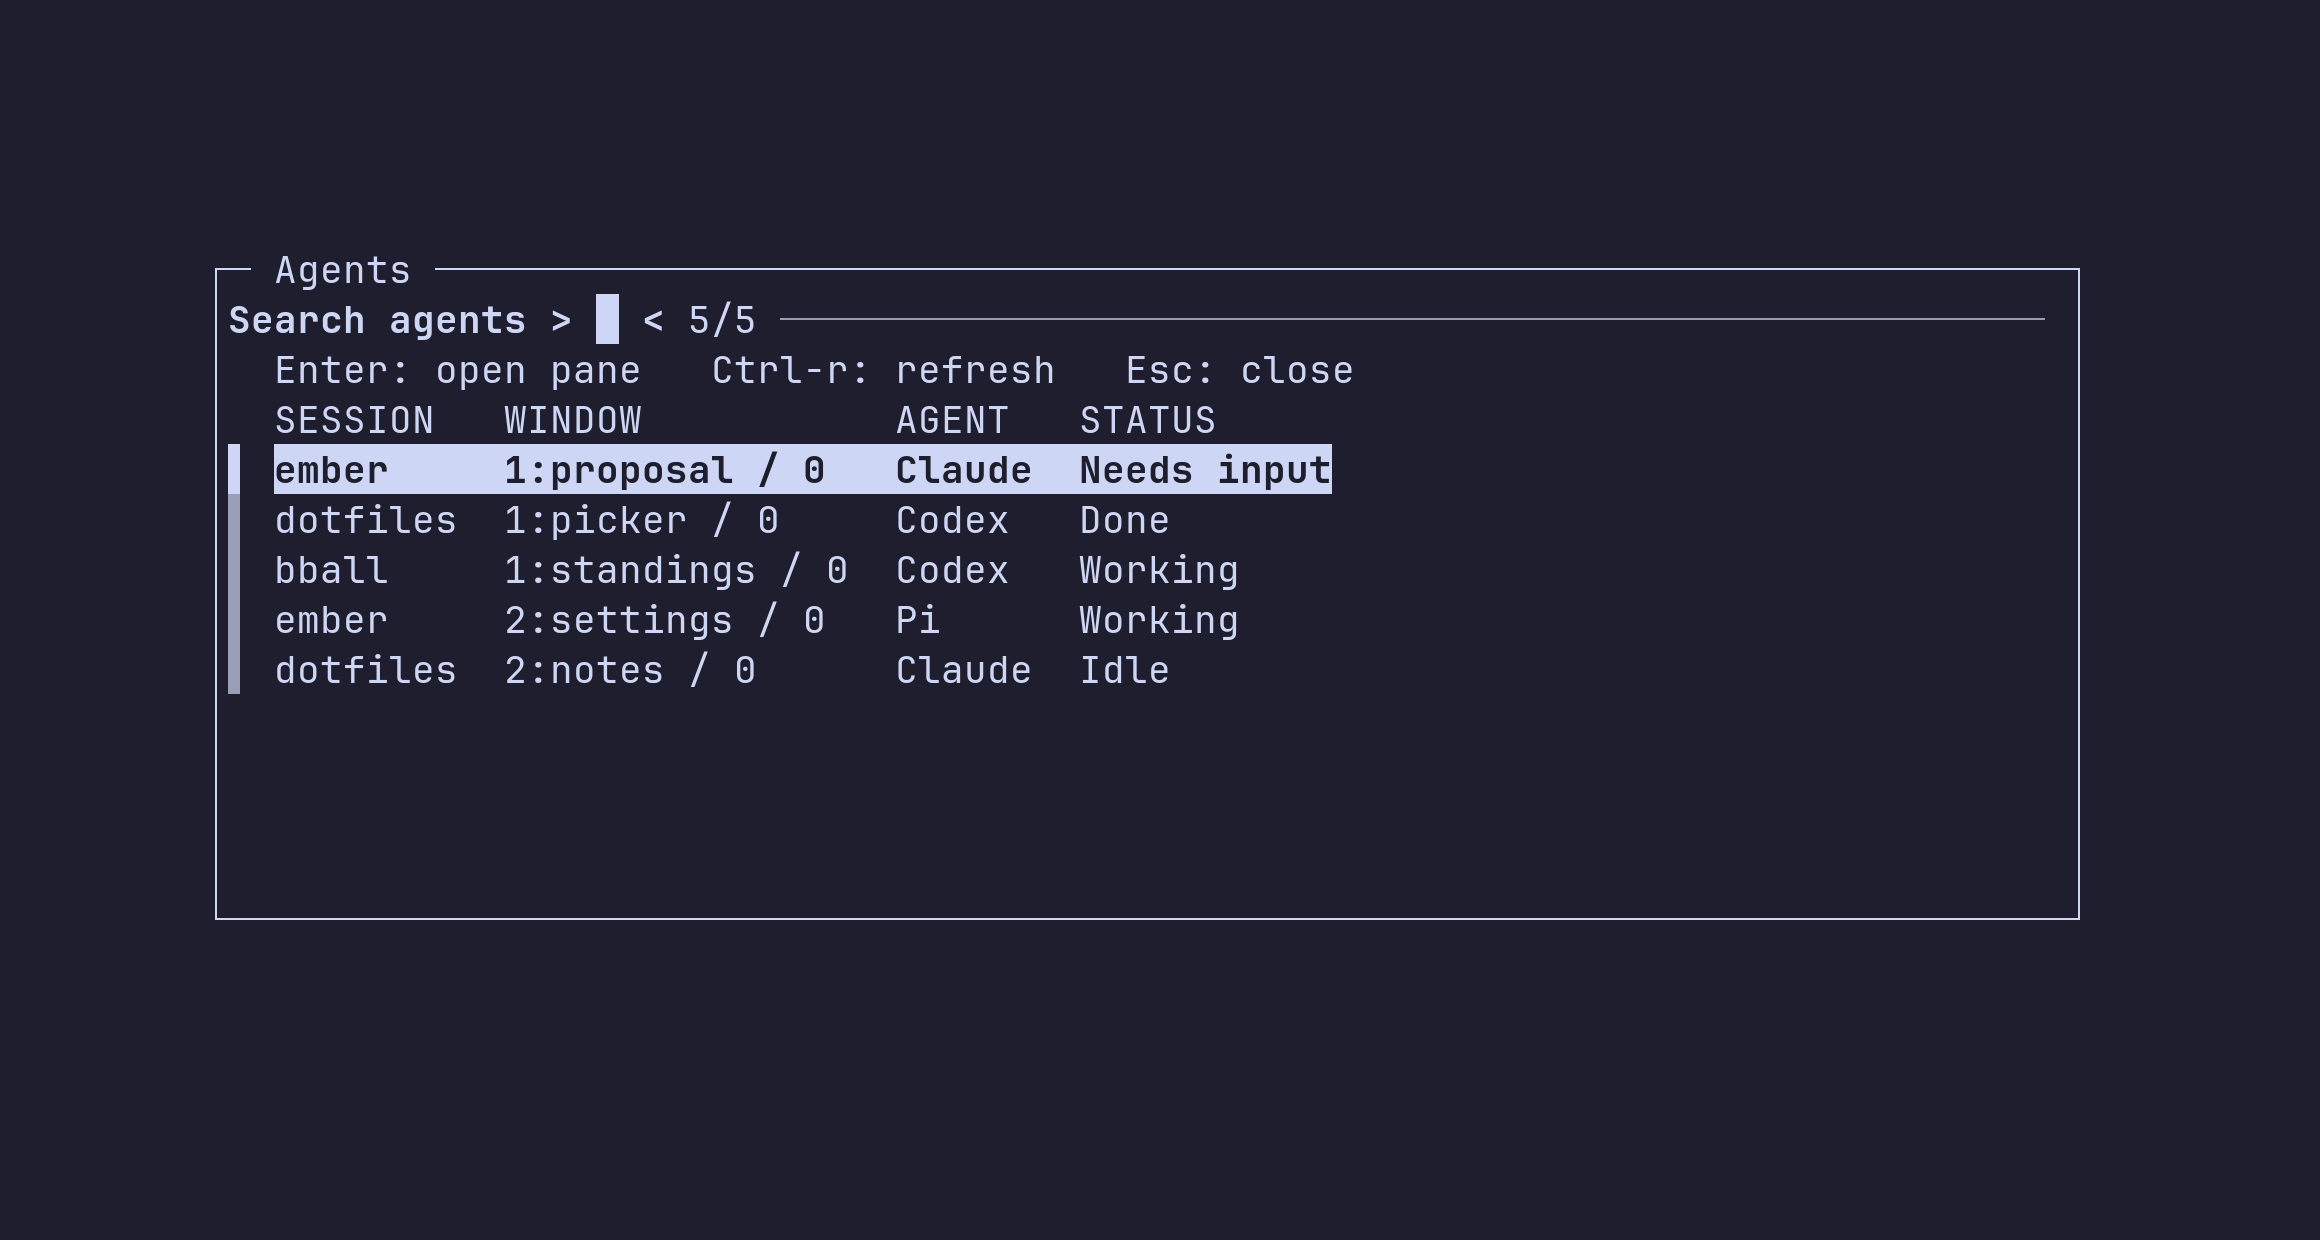
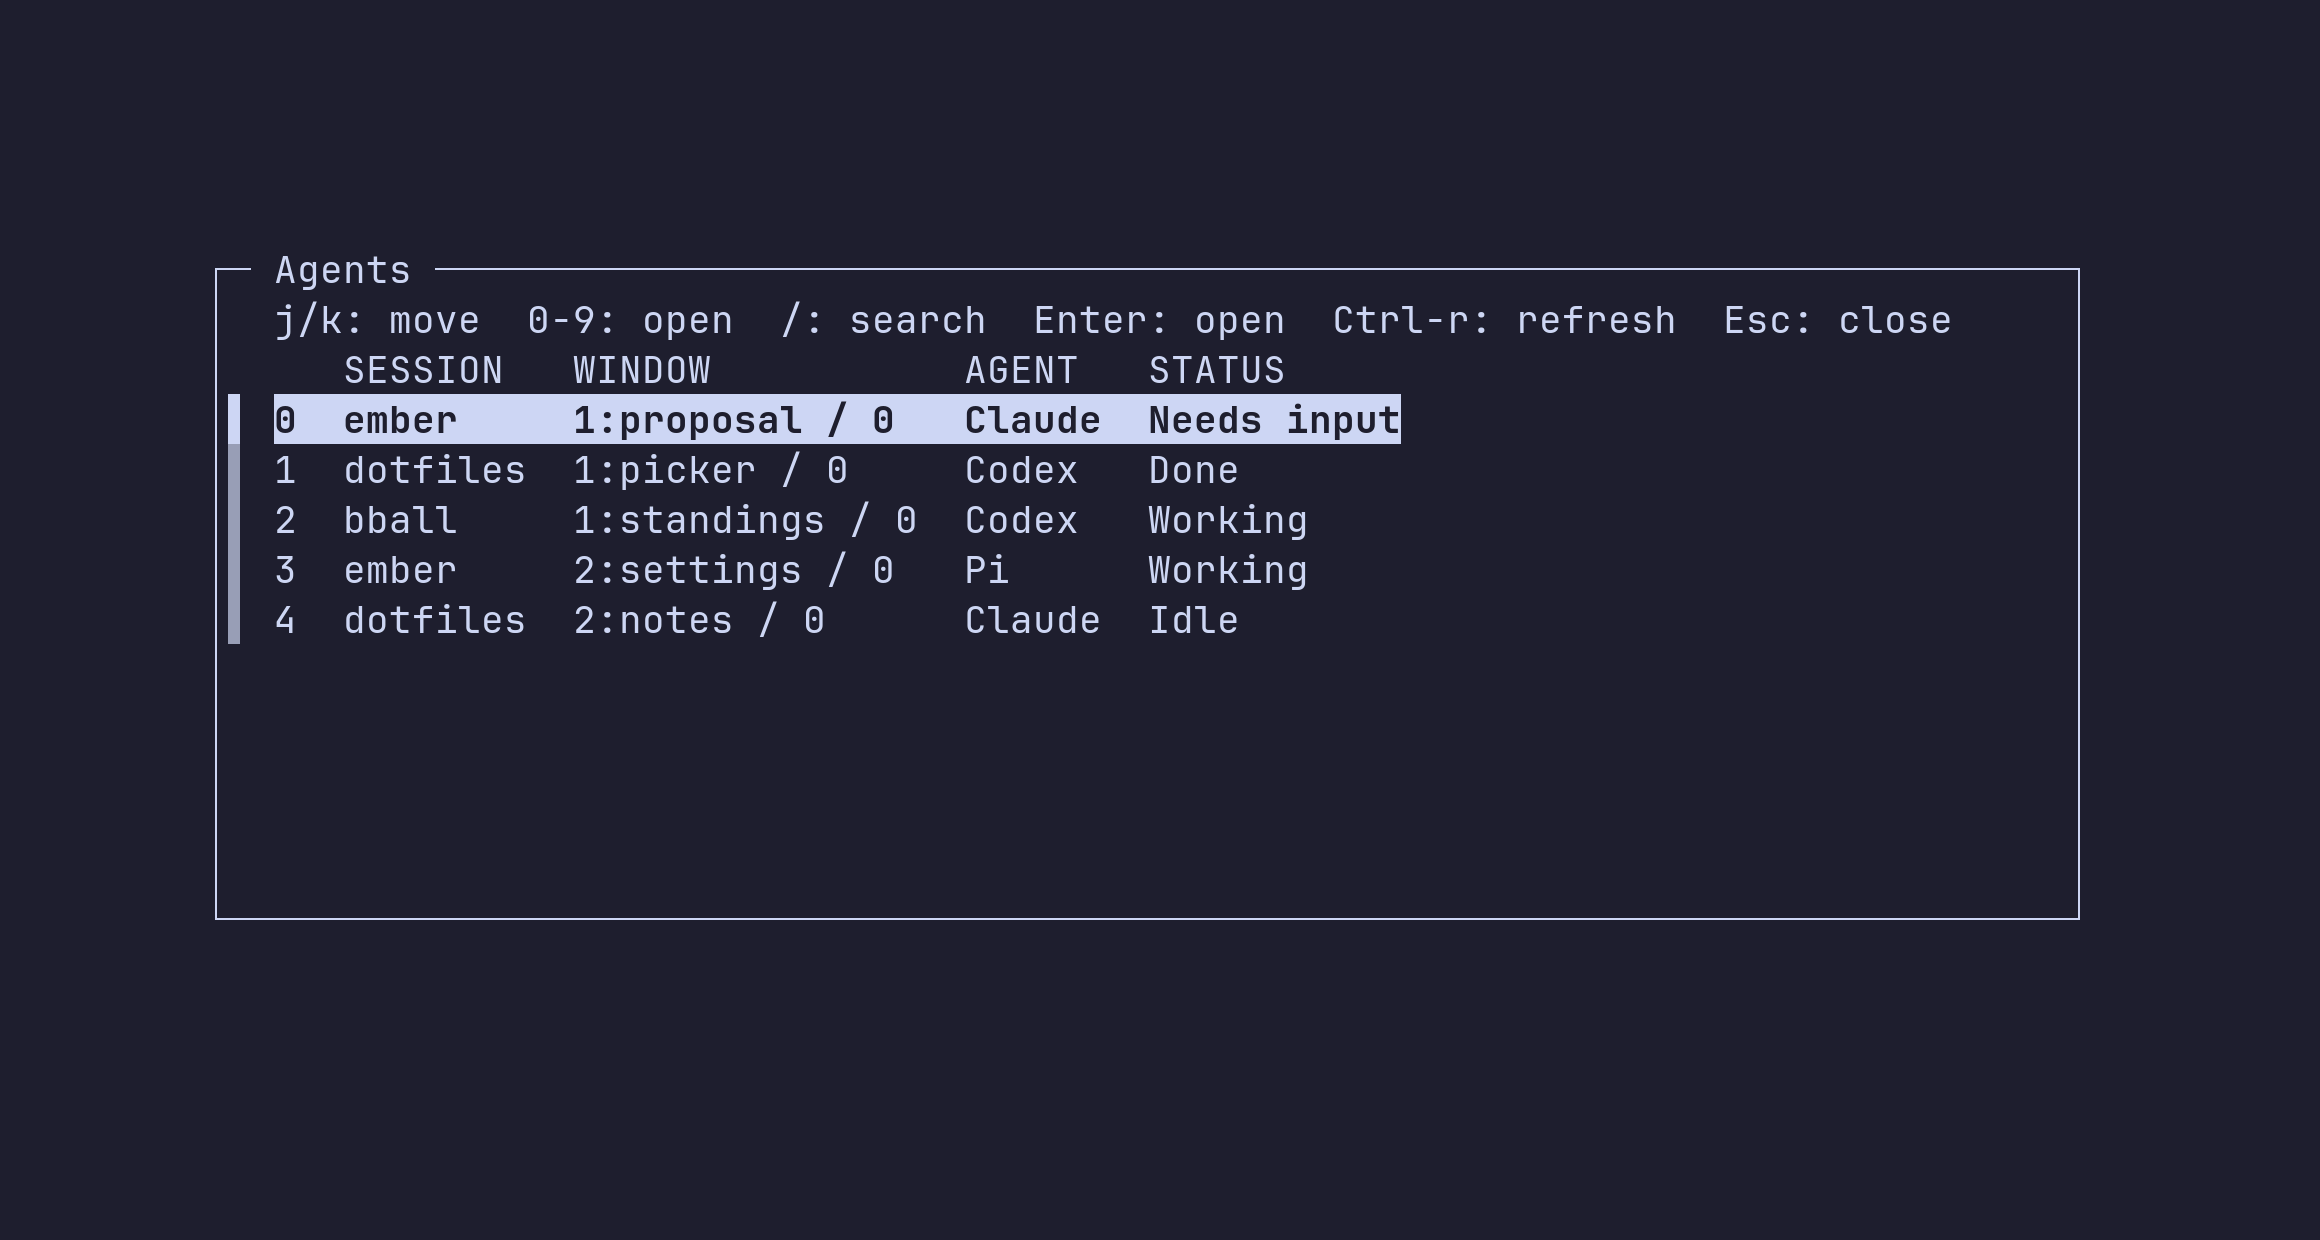
feat(no-ticket): add Vim navigation and numbered agent shortcuts

Changed region(s): [[0.0931, 0.2452, 0.8379, 0.5516]]

diff --git a/tests/test_tmux_agent_picker.py b/tests/test_tmux_agent_picker.py
@@ -116,7 +116,7 @@ class PickerTest(unittest.TestCase):
     def open_popup(self, fd):
         self.output[fd] = b''
         os.write(fd, b'\x02b')
-        self.until(lambda: b'SESSION' in self.output[fd] and b'Search agents' in self.output[fd])
+        self.until(lambda: b'SESSION' in self.output[fd] and b'Enter:' in self.output[fd])
 
     def keys_and_wait(self, fd, keys, text):
         self.output[fd] = b''
@@ -129,6 +129,48 @@ class PickerTest(unittest.TestCase):
         if client:
             args += ['--client', client]
         return subprocess.run(args, env=self.env, text=True, capture_output=True, check=True, timeout=5).stdout
+
+    @unittest.skipUnless(shutil.which('fzf'), 'fzf is required')
+    def test_navigation_uses_j_and_k_without_typing_a_query(self):
+        self.agent('claude', window='first')
+        target = self.agent('codex', window='second')
+        self.agent('pi', window='third')
+        self.load_binding()
+        fd, client = self.attach()
+        self.open_popup(fd)
+        os.write(fd, b'xjjk\r')
+        self.until(lambda: self.client_state(client).split()[1] == target)
+
+    @unittest.skipUnless(shutil.which('fzf'), 'fzf is required')
+    def test_number_shortcuts_select_the_labeled_rows_without_enter(self):
+        panes = [self.agent('codex', window=f'agent-{i}') for i in range(11)]
+        rows = [row.split('\t')[-1] for row in self.listing().splitlines()[1:]]
+        for i, row in enumerate(rows):
+            self.assertTrue(row.startswith(f'{i}  ' if i < 10 else '   '), row)
+        self.load_binding()
+        fd, client = self.attach()
+        for i in (9, 0, 5):
+            with self.subTest(key=i):
+                self.open_popup(fd)
+                os.write(fd, str(i).encode())
+                self.until(lambda: self.client_state(client).split()[1] == panes[i])
+
+    @unittest.skipUnless(shutil.which('fzf'), 'fzf is required')
+    def test_search_accepts_shortcut_characters_and_escape_restores_navigation(self):
+        first = self.agent('claude', window='other', state='done')
+        self.agent('codex', window='jk/9')
+        self.load_binding()
+        fd, client = self.attach()
+        before = self.client_state(client)
+        self.open_popup(fd)
+        os.write(fd, b'9')
+        self.keys_and_wait(fd, b'/jk/9', '1/2')
+        self.assertEqual(self.client_state(client), before)
+        self.keys_and_wait(fd, b'\x1b', '0-9:')
+        self.keys_and_wait(fd, b'/', '2/2')
+        self.keys_and_wait(fd, b'\x1b', '0-9:')
+        os.write(fd, b'0')
+        self.until(lambda: self.client_state(client).split()[1] == first)
 
     def test_lists_agents_in_column_and_attention_order(self):
         idle = self.agent('2.1.289', window='idle')
@@ -215,7 +257,7 @@ class PickerTest(unittest.TestCase):
         _, observer = self.attach('observer')
         before = self.client_state(observer)
         self.open_popup(fd)
-        self.keys_and_wait(fd, pane.encode(), '0/2')
+        self.keys_and_wait(fd, b'/' + pane.encode(), '0/2')
         self.keys_and_wait(fd, b'\x15ember proposal Codex Working', '1/2')
         os.write(fd, b'\r')
         self.until(lambda: self.client_state(client).split()[1] == pane)
@@ -228,7 +270,7 @@ class PickerTest(unittest.TestCase):
         self.load_binding()
         fd, client = self.attach()
         self.open_popup(fd)
-        self.keys_and_wait(fd, b'proposal Done', '0/2')
+        self.keys_and_wait(fd, b'/proposal Done', '0/2')
         self.tmux('set-option', '-p', '-t', pane, '@ai_attention_state', 'done')
         self.keys_and_wait(fd, b'\x12', '1/2')
         os.write(fd, b'\r')
@@ -329,7 +371,7 @@ class PickerTest(unittest.TestCase):
         self.load_binding(source)
         fd, client = self.attach()
         self.open_popup(fd)
-        self.keys_and_wait(fd, b'Done', '0/1')
+        self.keys_and_wait(fd, b'/Done', '0/1')
         self.tmux('set-option', '-p', '-t', pane, '@ai_attention_state', 'done')
         self.keys_and_wait(fd, b'\x12', '1/1')
         os.write(fd, b'\r')

diff --git a/docs/tmux-agent-attention.md b/docs/tmux-agent-attention.md
@@ -35,12 +35,20 @@ animation stops. The internal frame is not exported to new pane processes.
 
 `prefix b` opens a centered, searchable list of AI panes across the current tmux
 server. The columns are **Session**, **Window** (including pane index), **Agent**,
-and **Status**. Type to filter any column, use arrows to select, and press Enter
-to visit that pane. Escape closes the popup without navigating. `prefix w` and
-`prefix W` keep their native tree behavior.
+and **Status**. It opens in navigation mode:
 
-The initial order is **Needs input**, **Done**, **Working**, then **Idle**. Once
-you type, fzf ranks matching rows. The list is a snapshot; **Ctrl-r** refreshes
+- `j` moves down; `k` moves up. Arrow keys work too.
+- `0`–`9` immediately open the correspondingly labeled row. The first ten rows
+  have shortcuts; use movement keys or search for the rest.
+- Enter opens the highlighted pane. Escape closes the popup without navigating.
+- `/` enters search mode. Type to filter any column; letters and numbers are
+  ordinary query text here. Enter opens the match. Escape clears the search and
+  returns to navigation; another Escape closes the popup.
+
+`prefix w` and `prefix W` keep their native tree behavior.
+
+The initial order is **Needs input**, **Done**, **Working**, then **Idle**. In search mode,
+fzf ranks matching rows. The list is a snapshot; **Ctrl-r** refreshes
 it while keeping your query. Seen but unanswered dialogs still show Needs input.
 Done means unread stopped output, not task success. Opening or cancelling the
 popup does not clear attention; visiting a window uses the usual acknowledgement
@@ -65,7 +73,7 @@ session attachments stay unchanged.
 ### Installation
 
 The popup needs [Python 3.8+](https://docs.python.org/3/whatsnew/3.8.html),
-[fzf 0.51+](https://github.com/junegunn/fzf/releases/tag/0.51.0), and
+[fzf 0.59+](https://github.com/junegunn/fzf/releases/tag/0.59.0), and
 [tmux 3.3+](https://github.com/tmux/tmux/blob/3.3/CHANGES).
 The helper must be linked on **each machine** before loading the new binding.
 From the permanent dotfiles checkout, create the link if the destination is free:
